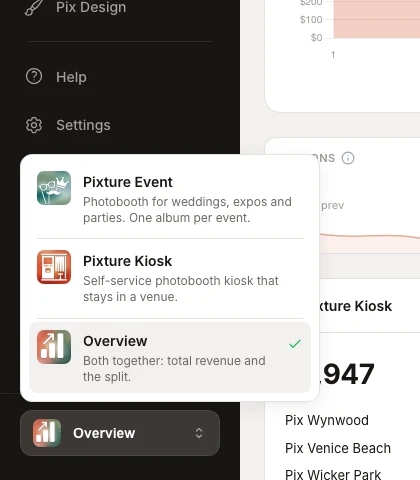
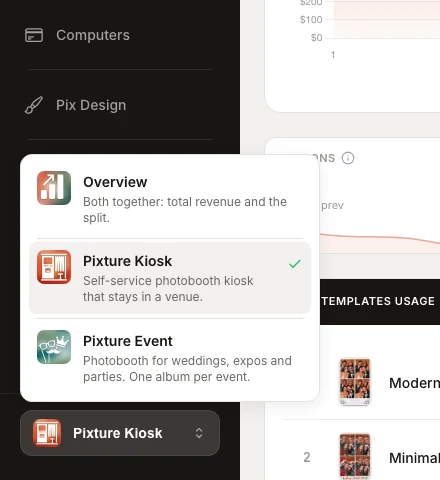
Docs: switcher order is Overview, Kiosk, Event (table and screenshot)

diff --git a/docs/dashboard/views.md b/docs/dashboard/views.md
@@ -13,13 +13,13 @@ If your account has events, you have three dashboards. Switch dashboard with the
 The switcher only changes which dashboard you are looking at. It does not change how a booth takes photos. **Booth modes** (Photo, 360/Slow-mo, Notes, Photographer, Mingle) are chosen for each event under **Setup > Booth mode > Edit modes**. See [Events](./events.md).
 :::
 
-![The dashboard switcher open at the bottom of the sidebar: Pixture Event, Pixture Kiosk and Overview, each with a short description](/img/docs/dashboard-views-switcher.webp)
+![The dashboard switcher open at the bottom of the sidebar: Overview, Pixture Kiosk and Pixture Event, each with a short description](/img/docs/dashboard-views-switcher.webp)
 
 | Dashboard | Use it for | Where you land |
 |---|---|---|
-| **Pixture Event** | A booth that runs for a set of dates, like a wedding, a party or a brand activation | Event dashboard |
-| **Pixture Kiosk** | A self-service photobooth in one place, like a mall photobox | Kiosk dashboard, the dashboard as it always was |
 | **Overview** | Both side by side | Overview |
+| **Pixture Kiosk** | A self-service photobooth in one place, like a mall photobox | Kiosk dashboard, the dashboard as it always was |
+| **Pixture Event** | A booth that runs for a set of dates, like a wedding, a party or a brand activation | Event dashboard |
 
 The switcher only shows on accounts that have events. If you do not see it, nothing is missing: your dashboard works as before.
 
@@ -27,14 +27,14 @@ The switcher only shows on accounts that have events. If you do not see it, noth
 
 The sidebar and the pages follow the dashboard you are in.
 
-| Page | Pixture Event | Pixture Kiosk | Overview |
+| Page | Overview | Pixture Kiosk | Pixture Event |
 |---|---|---|---|
-| Dashboard | Event numbers | Kiosk numbers | Both, split in two cards |
-| Events | Yes | No | No |
+| Dashboard | Both, split in two cards | Kiosk numbers | Event numbers |
+| Events | No | No | Yes |
 | Booths and Vouchers | No | Yes | No |
-| Transactions | **Event sales** | Transactions | Everything |
-| Gallery | **Event gallery**, filter by event | Gallery | Everything |
-| Health | **Event health** | Health | Every booth |
+| Transactions | Everything | Transactions | **Event sales** |
+| Gallery | Everything | Gallery | **Event gallery**, filter by event |
+| Health | Every booth | Health | **Event health** |
 | Marketing Studio, Computers, Pix Design, Settings | Yes | Yes | Yes |
 
 Opening a page that belongs to one dashboard takes you to that dashboard. Events always opens in Pixture Event, and Booths and Vouchers always open in Pixture Kiosk. So a link someone sends you still lands on the right page.
